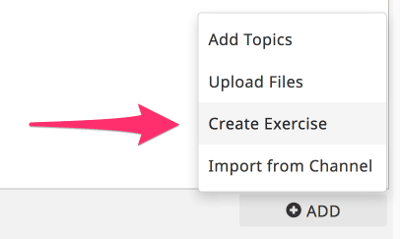
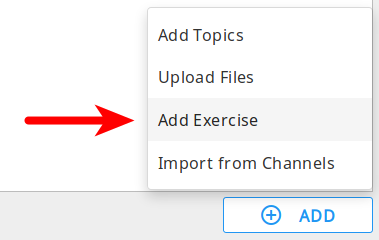
Reviewed all pages and adjusted new styles and screenshots

diff --git a/docs/_static/theme_overrides.css b/docs/_static/theme_overrides.css
@@ -118,15 +118,29 @@ img {
     background: #feffe9 !important;
 }
 
-.blue-plus {
+.blue-border {
 	padding-bottom: 1px !important;
 	background-color: #fff;
 	border-radius: 50%;
 	color: #2196f3;
 }
 
+.blue-border2 {
+	padding: 2px !important;
+	background-color: #fff;
+	border: 2px solid #2196f3;
+	border-radius: 50%;
+	color: #2196f3;
+}
+
+
 .blue {
 	color: #2196f3;
+	font-weight: bold;
+}
+
+.red {
+	color: red;
 	font-weight: bold;
 }
 

diff --git a/docs/conf.py b/docs/conf.py
@@ -142,18 +142,20 @@ rst_prolog = """
       :format: html
 
 .. |user| replace:: :raw-html:`<span class="material-icons" aria-hidden="true">account_circle</span><span class="visuallyhidden">User menu</span>`
-.. |invite| replace:: :raw-html:`<span class="material-icons" aria-hidden="true">people</span><span class="visuallyhidden">Invite collaborators</span>`
+.. |invite| replace:: :raw-html:`<span class="material-icons blue" aria-hidden="true">people</span><span class="visuallyhidden">Invite collaborators</span>`
 .. |star| replace:: :raw-html:`<span class="material-icons" aria-hidden="true">star</span><span class="visuallyhidden">Starred channels</span>`
 .. |star-o| replace:: :raw-html:`<span class="material-icons" aria-hidden="true"></span><span class="visuallyhidden">Star</span>`
 .. |copy-c| replace:: :raw-html:`<span class="material-icons" aria-hidden="true">content_paste</span><span class="visuallyhidden">Copy to computer clipboard</span>`
-.. |copy| replace:: :raw-html:`<span class="material-icons" aria-hidden="true">content_paste</span><span class="visuallyhidden">Copy to Studio clipboard</span>`
-.. |pencil| replace:: :raw-html:`<span class="material-icons" aria-hidden="true">mode_edit</span><span class="visuallyhidden">Pencil</span>`
-.. |move| replace:: :raw-html:`<span class="material-icons" aria-hidden="true">open_with</span><span class="visuallyhidden">Move</span>`
+.. |copy| replace:: :raw-html:`<span class="material-icons blue" aria-hidden="true">content_paste</span><span class="visuallyhidden">Copy to Studio clipboard</span>`
+.. |pencil| replace:: :raw-html:`<span class="material-icons blue" aria-hidden="true">mode_edit</span><span class="visuallyhidden">Pencil</span>`
+.. |pencil-b| replace:: :raw-html:`<span class="material-icons blue-border2" aria-hidden="true">mode_edit</span><span class="visuallyhidden">Pencil</span>`
+.. |move| replace:: :raw-html:`<span class="material-icons blue" aria-hidden="true">open_with</span><span class="visuallyhidden">Move</span>`
 .. |delete| replace:: :raw-html:`<span class="material-icons" aria-hidden="true">clear</span><span class="visuallyhidden">Delete</span>`
-.. |trash| replace:: :raw-html:`<span class="material-icons" aria-hidden="true">delete</span><span class="visuallyhidden">Manage deleted content</span>`
-.. |sync| replace:: :raw-html:`<span class="material-icons" aria-hidden="true">sync</span><span class="visuallyhidden">Sync</span>`
+.. |trash| replace:: :raw-html:`<span class="material-icons blue" aria-hidden="true">delete</span><span class="visuallyhidden">Manage deleted content</span>`
+.. |sync| replace:: :raw-html:`<span class="material-icons blue" aria-hidden="true">sync</span><span class="visuallyhidden">Sync</span>`
 .. |plus| replace:: :raw-html:`<span class="material-icons" aria-hidden="true">add</span><span class="visuallyhidden">Add new</span>`
-.. |plus-c| replace:: :raw-html:`<span class="material-icons blue-plus" aria-hidden="true">add_circle_outline</span>`
+.. |plus-b| replace:: :raw-html:`<span class="material-icons blue" aria-hidden="true">add</span><span class="visuallyhidden">Add new</span>`
+.. |plus-b-b| replace:: :raw-html:`<span class="material-icons blue-border" aria-hidden="true">add_circle_outline</span>`
 .. |home| replace:: :raw-html:`<span class="material-icons" aria-hidden="true">home</span><span class="visuallyhidden">Home</span>`
 .. |close| replace:: :raw-html:`<span class="material-icons" aria-hidden="true">clear</span><span class="visuallyhidden">Close</span>`
 .. |ellipsis| replace:: :raw-html:`<span class="material-icons" aria-hidden="true">more_horiz</span><span class="visuallyhidden">Ellipsis</span>`
@@ -166,6 +168,9 @@ rst_prolog = """
 
 .. role:: blue
     :class: blue
+
+.. role:: red
+    :class: red
 
 """
 

diff --git a/docs/add_content.rst b/docs/add_content.rst
@@ -62,10 +62,10 @@ Edit Channel Content Tools
 #. Channel selector dropdown menu
 #. Open channel settings
 #. :ref:`Clipboard <clipboard>` button (with the indicator of available content items)
-#. **Show ID** button to display the channel ID or token
+#. **Show Token** button to display the channel ID or token
 #. **Publish** button to save changes in channel content
 #. Topic container pane
-#. :guilabel:`+ ADD` button to :ref:`add topics <add_topics>`, :ref:`upload content <upload>`, :ref:`create exercises <exercises>`, and :ref:`import content <import_content>`.
+#. |plus-b-b| :blue:`ADD` button to :ref:`add topics <add_topics>`, :ref:`upload content <upload>`, :ref:`create exercises <exercises>`, and :ref:`import content <import_content>`.
 
 
 .. _add_topics:
@@ -75,7 +75,7 @@ Add Topics to Channel
 
 To create one or more new topics in a content channel, follow these steps.
 
-#. Click |plus-c| :blue:`ADD` button.
+#. Click |plus-b-b| :blue:`ADD` button.
 #. Select **Add Topics** option.
 
    .. figure:: img/add-topics.png
@@ -83,11 +83,11 @@ To create one or more new topics in a content channel, follow these steps.
 
          Add Topics
 
-#. Complete the topic information (title, description, language, thumbnail image) and metadata, and click the **SAVE** button. 
+#. Complete the topic information (title, description, language, thumbnail image) and metadata (tags). 
 
    .. note:: Setting the topic language is optional: if you don't set it, it will default to the language of the parent topic; if it is the root topic, it will default to the language set for the whole channel.
 
-#. Click |plus| **TOPIC** button on the left side to add more topics.
+#. Click |plus-b| :blue:`TOPIC` button on the left side to add more topics.
 
    .. figure:: img/edit-topics.png
       :alt: Edit topic details and add metadata.
@@ -96,7 +96,7 @@ To create one or more new topics in a content channel, follow these steps.
 
    .. tip:: Use the checkboxes on the left to select topics, edit and change details or metadata, or |close| buttons to delete topics in this same window. Remember to click the **SAVE** afterward.
 
-#. Click **SAVE & CLOSE** to save changes and return to the previous page.
+#. Click the **SAVE** button for the intermediate changes (the dialog will remain open), or **SAVE & CLOSE** to save changes and return to the main topic tree view.
 
 
 Add Subtopics
@@ -104,7 +104,7 @@ Add Subtopics
 
 To add further subtopics to any of the topics or subtopics you created you can either:
 
-* Click |plus-c| **ADD** button at the bottom, and select **Add Topics** option.
+* Click |plus-b-b| :blue:`ADD` button at the bottom, and select **Add Topics** option.
 
 **OR**
 
@@ -144,7 +144,7 @@ Currently allowed file formats for individual learning resources are:
 
 To upload individual learning resources into your content channel, follow these steps.
 
-#. Click |plus-c| **ADD** button.
+#. Click |plus-b-b| :blue:`ADD` button.
 
 #. Select **Upload Files** option.
 
@@ -153,7 +153,7 @@ To upload individual learning resources into your content channel, follow these 
 
          Upload Files option.
 
-#. Click **ADD FILES** button or drag and drop the files inside the window.
+#. Click :blue:`ADD FILES` button or drag and drop the files inside the window.
 
    .. figure:: img/add-more-files.png
          :alt: Add individual learning resources to content channel.
@@ -176,7 +176,7 @@ To upload individual learning resources into your content channel, follow these 
 
          Generate thumbnails from content.
 
-#. Click **EDIT METADATA** button to proceed.
+#. Click |pencil-b| :blue:`Edit Metadata` button to proceed.
 
    .. tip:: Adding the **appropriate metadata** to each content item, and following the **consistent style for filenames and tags** will impact the search functionality, and you should keep it in mind in order to ensure the findability of the learning resources included in your channels. 
 
@@ -187,8 +187,6 @@ To upload individual learning resources into your content channel, follow these 
 
          Add metadata to files.
 
-   .. tip:: Tags used previously will appear below the field when you start typing, so you can easily select and reuse them when appropriate.
-
    .. warning:: Remember to select the `appropriate license <https://creativecommons.org/choose/>`_ in case you are adding files to a content channel that you plan to release publicly. 
       
       You can select a **Special Permissions** license field to customize the description or in cases where the available licenses do not match the content permissions.
@@ -198,8 +196,7 @@ To upload individual learning resources into your content channel, follow these 
 
                Add Special Permissions license.
 
-#. Click **SAVE** button to save the intermediate changes.
-#. Click **SAVE & CLOSE** to return to the main channel content page.
+#. Click the **SAVE** button for the intermediate changes (the dialog will remain open), or **SAVE & CLOSE** to save changes and return to the main topic tree view.
 
 .. _video:
 
@@ -275,13 +272,13 @@ Kolibri marks an exercise as completed when learners meet the mastery criteria. 
 
 To create an exercise, follow these steps.
 
-#. Click |plus-c| **ADD** button.
-#. Select **Create Exercise** option.
+#. Click |plus-b-b| :blue:`ADD` button.
+#. Select **Add Exercise** option.
 
    .. figure:: img/create-exercise.png
-         :alt: Select Create Exercise option.
+         :alt: Select Add Exercise option.
 
-         Select Create Exercise option.
+         Select Add Exercise option.
 
 #. Edit the exercise in the **Details** tab to:
 
@@ -297,10 +294,11 @@ To create an exercise, follow these steps.
 
 #. Use the **Questions** tab to:
 
-   a. Select the answer type (single/multiple, true/false or numeric input)
-   b. Provide answers for each question 
-   c. Provide hints for each question
-   d. Randomize answer order
+   a. Add the question text and images in the question editor field
+   b. Select the answer type (single/multiple, true/false or numeric input)
+   c. Provide answers for each question 
+   d. Provide hints for each question
+   e. Randomize answer order
 
    .. figure:: img/edit-content-questions.png
          :alt: Exercise Questions tab options.
@@ -355,8 +353,7 @@ To create an exercise, follow these steps.
 
    .. warning:: Currently the **Prerequisites** category is used to merely indicate the **recommended content** that will allow learners to revisit key prior concepts, foundational skills, or immediately relevant background information. For learners on Kolibri, these items will appear alongside the concept for recommended viewing, **but will not be compulsory** in order to view the current resource.
 
-#. Click **SAVE** button to save the intermediate changes.
-#. Click **SAVE & CLOSE** when you finish editing to return to the topic view.
+#. Click the **SAVE** button for the intermediate changes (the dialog will remain open), or **SAVE & CLOSE** to save changes and return to the main topic tree view.
 
    .. figure:: img/final-question.png
          :alt: Review final question display.
@@ -370,7 +367,7 @@ Import Content from Other Channels
 
 To import content from other channels, either those previously published or those that are publicly available, follow these steps.
 
-#. Click |plus-c| **ADD** button.
+#. Click |plus-b-b| :blue:`ADD` button.
 #. Select **Import from Channels** option. 
 
    .. figure:: img/import-from-channels.png
@@ -380,14 +377,14 @@ To import content from other channels, either those previously published or thos
 
 #. Select the content you want from **Import from Other Channels** dialog. This window will display all the channels that you can import content from. You can select the whole topics or individual resources to import. The total size and number of the resources you are importing is displayed in the summary at the bottom of the dialog.
 
-#. Use the **Search** field to look for a specific topic or resource among the available channels.
+#. Use the :blue:`Search` field to look for a specific topic or resource among the available channels.
 
    .. figure:: img/import-search.png
       :alt: Import Content from Channels with Search option.
 
       Import Content from Channels with Search option.
 
-#. Click **CONTINUE** to review the selected resources.
+#. Click :blue:`CONTINUE` to review the selected resources.
 
    .. figure:: img/review-import.png
       :alt: Review the number and size of the selected resources.
@@ -396,7 +393,7 @@ To import content from other channels, either those previously published or thos
 
    .. tip:: You can use the **Back** link to return to the full resources list, but you will loose the current selection.
 
-#. Click **IMPORT** when you are done to return to the main channel content page.
+#. Click :blue:`IMPORT` when you are done to return to the main channel content page.
 
    .. warning:: The server’s capacity per import is currently approximately 100 content items. When importing over 100 content items, you will need to import in multiple chunks. The number highlighted in blue next to each checked section indicates the number of content items in that section.
 
@@ -447,7 +444,7 @@ Content imported from other channels can change over time. Use the **Syncing con
 
 1. Click the |sync| button in the :ref:`Edit Channel Content Toolbar <edit_content>`.
 2. Select which fields you want to sync.
-3. Click the **SYNC** button to proceed, or **CANCEL** to exit without syncing.
+3. Click the :blue:`SYNC` button to proceed, or :blue:`CANCEL` to exit without syncing.
 
    .. figure:: img/sync-content.png
       :alt: Sync imported content to keep it up-to-date.

diff --git a/docs/manage_content.rst b/docs/manage_content.rst
@@ -58,9 +58,7 @@ To edit details for each topic/subtopic or individual resource, follow these ste
             Add and edit Prerequisites for Exercises.
 
 
-#. Click **SAVE** button to save the intermediate changes.
-
-#. Click **SAVE & CLOSE** when you are done to return to the main channel content page.
+#. Click the **SAVE** button for the intermediate changes (the dialog will remain open), or **SAVE & CLOSE** to save changes and return to the main topic tree view.
   
 
 .. _set_role_visibility:
@@ -126,7 +124,7 @@ To move content items from one topic/subtopic to another, follow these steps.
          Drag-and-drop content to move it from one topic/subtopic to another.
 
 #. Select the destination topic/subtopic on the right side of the **Moving content** window.
-#. Click the button **MOVE**.
+#. Click the button :blue:`MOVE` or :blue:`CANCEL` to exit without moving.
 
 
 .. _delete_content:
@@ -151,12 +149,12 @@ To delete topic, subtopic or a content item from the channel, follow these steps
 To restore deleted topic, subtopic or a content item, follow these steps.
 
 #. Click the |trash| button in the :ref:`Edit Channel Content Toolbar <edit_content>`.
-#. Select the checkbox of the topics, subtopic or a content item you want to restore from the **Managing deleted content from...** window.
+#. Select the checkbox of the topics, subtopic or a content item you want to restore from the **Managing deleted content** window.
 
    .. figure:: img/restore-deleted.png
          :alt: Restore deleted content.
 
          Restore deleted content.
 
-#. Click the **Restore Selected** button to restore them to their original position, or **Delete Selected** to permanently delete them.
-#. Click the button **Close** and remember to publish the changes to the channel.
+#. Click the **Restore Selected** button to restore them to their original position, or :red:`Delete Selected` to permanently delete them.
+#. Click the button :blue:`CLOSE` and remember to publish the changes to the channel.

diff --git a/docs/publish_channel.rst b/docs/publish_channel.rst
@@ -7,10 +7,10 @@ You must publish the content channel each time you add new learning resources, u
 
 To publish a content channel, follow these steps.
 
-#. Click **PUBLISH** button in the upper right corner of the channel content page.
+#. Click :blue:`PUBLISH` button in the upper right corner of the channel content page.
 #. Review the list of content that is going to be published.
 #. Check if the channel language is correctly set in the drop-down menu.
-#. Click **PUBLISH** button in the lower right corner of the dialog.
+#. Click :blue:`PUBLISH` button in the lower right corner of the dialog.
 
    .. figure:: img/publish-channel.png
       :alt: Publish channel dialog.

diff --git a/docs/share_channels.rst b/docs/share_channels.rst
@@ -23,7 +23,7 @@ To allow others to view or edit your own content channels, or those that you can
 
          Send email invite to collaborators.
 
-5. Click **CLOSE** to send the invitation. 
+5. Click :blue:`CLOSE` to send the invitation. 
 
 When you invite collaborators to view or edit channels, they will be notified on their **My Channels** home page, where they can accept or reject the pending invitations. They will also receive an email allowing them to accept/reject the pending invitations.
 
